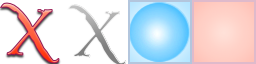
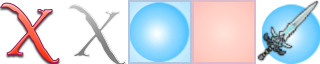
UI変更
攻撃可能領域表示

diff --git a/main.js b/main.js
@@ -862,6 +862,16 @@ window.onload = function(){
         //Math.absは絶対値を返しますIの距離とJの絶対値を足します。
         return distance;
       },
+      withinRange: function(i, j) {
+        var distance = utils.getManhattanDistance(this.activeFune.i,this.activeFune.j,i,j);
+        console.log("this.activeFune.i",this.activeFune.i,"this.activeFune.j",this.activeFune.j,
+        this.activeFune.stats.range,distance,distance <= this.activeFune.stats.range);
+        if( distance <= this.activeFune.stats.range) {
+          return true;
+        } else {
+          return false;
+        }
+      },
       drawMovementRange: function(){
         console.log("update drawMovementRange")
 
@@ -878,8 +888,11 @@ window.onload = function(){
         *現在位置を中心にした四角形を左下から右上の順に調べる
         */
         for (var rangeI = -this.activeFune.getMovement(); rangeI <= this.activeFune.getMovement(); rangeI++) {
+          //getMovement : 船の移動可能距離
+          //targetI = 今操作中の船の横位置+range表示
           var targetI = this.activeFune.i +rangeI;
           for (var rangeJ = -this.activeFune.getMovement(); rangeJ <= this.activeFune.getMovement(); rangeJ++) {
+            //targetJ = 今操作中の船の縦位置+range表示
             var targetJ = this.activeFune.j + rangeJ;
 
             if (!this.outOfBorders(targetI, targetJ)) {
@@ -908,8 +921,12 @@ window.onload = function(){
                   areaSprite.frame = 3;
                   //赤く表示
                 } else {
-                  areaSprite.frame = 2;
-                  //そうでなければ白く表示
+                  if(this.withinRange(targetI,targetJ)) {
+                    areaSprite.frame = 4;
+                  } else {
+                    //そうでなければ白く表示
+                    areaSprite.frame = 2;
+                  }
                 }
                 this.positonObject(areaSprite, targetI, targetJ);
                 this.areaRangeLayer.addChild(areaSprite);
